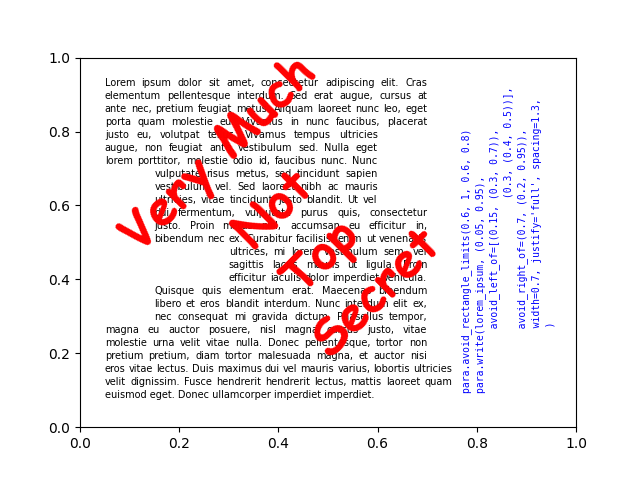
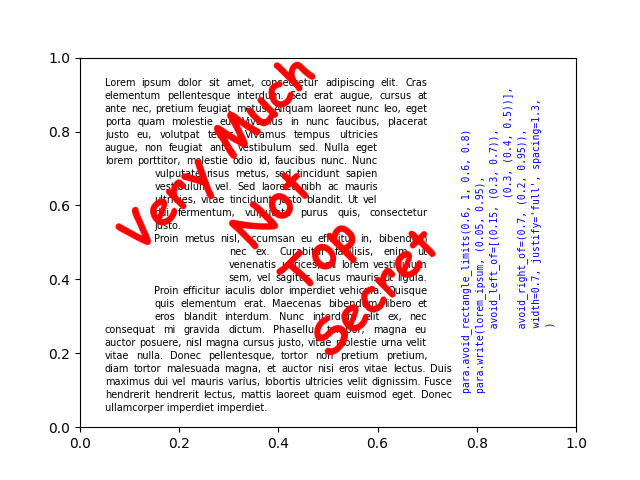
fixed paragraph splitting. Enabling max_height and .leftover return

Changed region(s): [[0.1562, 0.4375, 0.7188, 0.875]]

diff --git a/parampl/core.py b/parampl/core.py
@@ -191,6 +191,8 @@ class ParaMPL:
         self._spacing = spacing
         self._justify = justify
 
+        self.leftover: str = ""
+
         self._axes = axes
 
         self._renderer = axes.get_figure().canvas.get_renderer()
@@ -271,6 +273,7 @@ class ParaMPL:
 
               width: float | None = None,
               spacing: float | None = None,
+              max_height: float | None = None,
 
               fontname: str | None = None,
               fontsize: float | None = None,
@@ -306,6 +309,8 @@ Write text into a paragraph, storing word length in dictionary cache. Return a l
            width of paragraph
         spacing
            line spacing of paragraph
+        max_height:
+           maximum height of paragraph, remaining characters are stored in .leftover attribute
 
         fontname:
           specific fontname, if not specified then use family
@@ -410,13 +415,13 @@ Write text into a paragraph, storing word length in dictionary cache. Return a l
         if props['fontname'] is None:
             del props['fontname']
 
-        for paragraph in paragraphs:
+        for idx_paragraph, paragraph in enumerate(paragraphs):
             words = []
             length = 0
 
             # if full justified add word-by-word size and when line is completed, fill with space
             if justify == 'full':
-                for word in paragraph.split(' '):
+                for idx, word in enumerate(paragraph.split(' ')):
                     if length + widths[word] > lp.width_line:
                         if len(words) > 1:
                             extra_spacing = (lp.width_line - length + space_width) / (len(words) - 1)
@@ -430,6 +435,16 @@ Write text into a paragraph, storing word length in dictionary cache. Return a l
                                     **props)
                             offset += extra_spacing + space_width + widths[word_out]
 
+                        if (max_height is not None
+                            and lp.total_height() - lp.delta_y > max_height):
+
+                            paragraph_sep = "\n" if paragraph_per_line else "\n\n"
+                            self.leftover = paragraph_sep.join([" ".join([word] +
+                                                                         paragraph.split(' ')[idx + 1:]
+                                                                         )] +
+                                                               paragraphs[idx_paragraph + 1:])
+                            return self._artists_and_vertical_align(old_artists, lp, va)
+
                         lp.next_line()
                         length = 0
                         words = []
@@ -437,20 +452,33 @@ Write text into a paragraph, storing word length in dictionary cache. Return a l
                     length += widths[word] + space_width
                     words.append(word)
 
-                x, y = lp.offset()
-                ax.text(x, y, ' '.join(words),
-                        **props)
-                lp.next_line()
+                # if for reaches the end (no max_height)
+                else:
+                    x, y = lp.offset()
+                    ax.text(x, y, ' '.join(words),
+                            **props)
+                    lp.next_line()
+                    self.leftover = ""
 
             # if left, right, center justified then write the whole line then move it.
             else:
-                for word in paragraph.split(' '):
+                for idx, word in enumerate(paragraph.split(' ')):
                     if length + widths[word] > lp.width_line:
                         x, y = lp.offset(justified_length=length - space_width)
                         ax.text(x, y, ' '.join(words),
                                 **props)
                         lp.next_line()
                         length, words = 0, []
+
+                        if max_height is not None and lp.total_height() - lp.delta_y > max_height:
+
+                            paragraph_sep = "\n" if paragraph_per_line else "\n\n"
+                            self.leftover = paragraph_sep.join([word] +
+                                                               [" ".join([word] +
+                                                                         paragraph.split(' ')[idx + 1:]
+                                                                         )] +
+                                                               paragraphs[idx_paragraph + 1:])
+                            return self._artists_and_vertical_align(old_artists, lp, va)
 
                     length += widths[word] + space_width
                     words.append(word)
@@ -460,6 +488,10 @@ Write text into a paragraph, storing word length in dictionary cache. Return a l
                         **props)
                 lp.next_line()
 
+        return self._artists_and_vertical_align(old_artists, lp, va)
+
+    def _artists_and_vertical_align(self, old_artists, lp, va):
+        ax = self._axes
         # get list of artists generated for these paragraphs.
         parampl_artists = [artist for artist in ax.texts if artist not in old_artists]
 

diff --git a/parampl/statics.py b/parampl/statics.py
@@ -11,8 +11,8 @@ border_specification = border_single_specification | list[border_single_specific
 
 def split_into_paragraphs(text, collapse_whites=True, paragraph_per_line=False):
     if collapse_whites:
-        text = re.sub(r' +', ' ', text)
-        text = re.sub(r'\s*\n\s*', '\n', text)
+        text = re.sub(r'[ \t]+', ' ', text)
+        text = re.sub(r'[ \t]*\n[ \t]*', '\n', text)
 
         def pre_process(x, rep):
             return x.strip().replace(rep, " ")

diff --git a/quickstart.py b/quickstart.py
@@ -65,5 +65,4 @@ para.write("Very Much\nNot\nTop\nSecret", (0.5, 0.5),
            **cursive | red | slanted | centered | big | every_line,
            )
 
-
 f.show()
